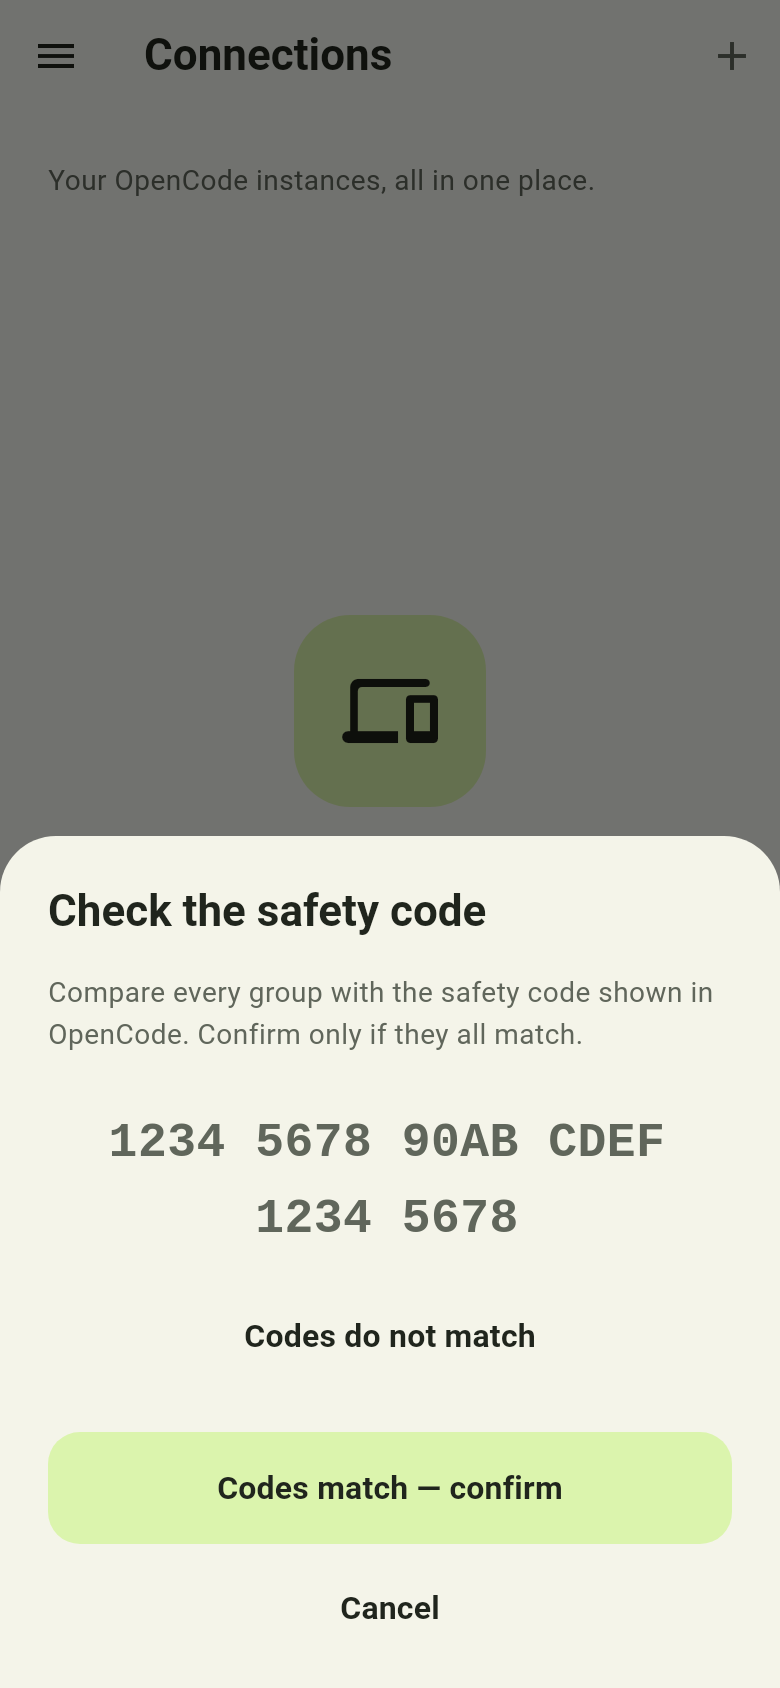
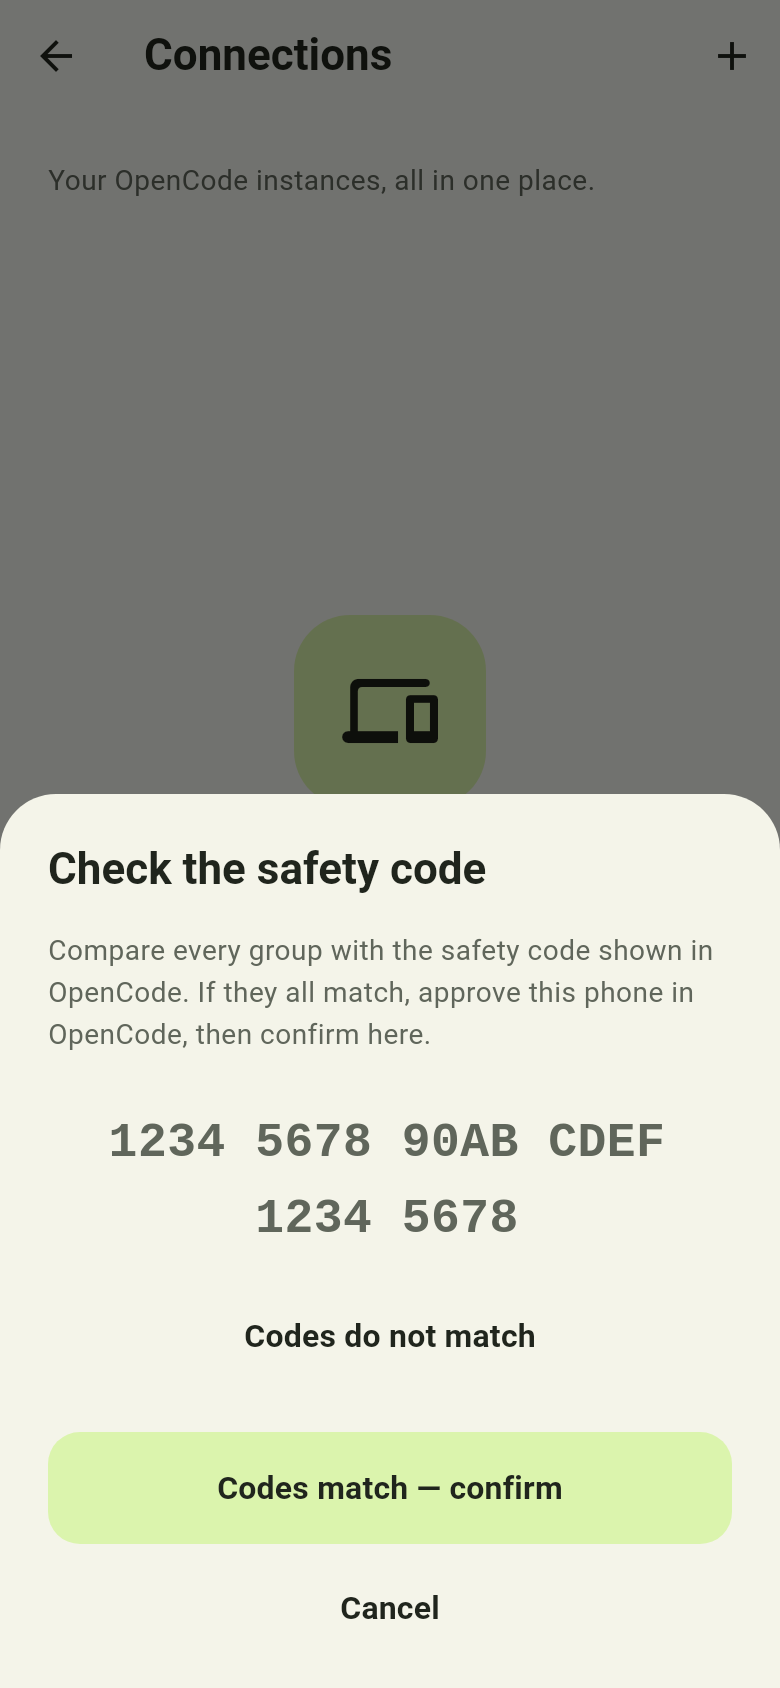
docs(mobile): refresh previews and verify voice availability states

Changed region(s): [[0.0, 0.4621, 1.0, 0.6161], [0.9231, 0.0308, 0.9538, 0.0616]]

diff --git a/tool/render_previews_test.dart b/tool/render_previews_test.dart
@@ -17,6 +17,7 @@ import 'package:flutter_test/flutter_test.dart';
 import 'package:openremotecode/app.dart';
 import 'package:openremotecode/features/chat/data/chat_repository.dart';
 import 'package:openremotecode/features/chat/ui/chat_flow_screen.dart';
+import 'package:openremotecode/features/chat/domain/voice_recorder.dart';
 import 'package:openremotecode/features/server_settings/domain/server_endpoint.dart';
 import 'package:openremotecode/ui/core/app_theme.dart';
 
@@ -25,6 +26,18 @@ import '../test/support/connections_fakes.dart';
 import '../test/support/memory_server_settings_repository.dart';
 
 final _shot = GlobalKey();
+
+class _PreviewVoiceRecorder implements VoiceRecorder {
+  @override
+  Future<bool> requestPermission() async => false;
+  @override
+  Future<Stream<Uint8List>> start() async => const Stream.empty();
+  @override
+  Future<void> stop() async {}
+  @override
+  Future<void> dispose() async {}
+}
+
 final _out = Platform.environment['PREVIEW_DIR'] ?? 'docs/previews';
 const _server = 'http://127.0.0.1:8080';
 
@@ -214,8 +227,9 @@ List<Map<String, dynamic>> _parts(bool withTask) => [
 ];
 
 final class _SampleChats implements ChatRepository {
-  _SampleChats({this.withTask = false});
+  _SampleChats({this.withTask = false, this.voiceAvailable = false});
   final bool withTask;
+  bool voiceAvailable;
   final changes = StreamController<void>.broadcast();
 
   @override
@@ -257,6 +271,8 @@ final class _SampleChats implements ChatRepository {
     Map<String, dynamic> body,
   ) async {
     switch (operation) {
+      case 'voice.status':
+        return {'version': 1, 'available': voiceAvailable};
       case 'project.list':
         return {
           'version': 1,
@@ -356,6 +372,7 @@ Future<void> _pumpChat(WidgetTester tester, _SampleChats repo) async {
           repository: repo,
           connectorId: 'sample',
           connectionName: 'Workstation',
+          voiceRecorderFactory: _PreviewVoiceRecorder.new,
         ),
       ),
     ),
@@ -403,13 +420,13 @@ void main() {
     await _pumpApp(tester, connections: repo, signedIn: true);
     await _capture(tester, 'workspace');
 
-    await tester.tap(find.byTooltip('Open navigation menu'));
+    await tester.tap(find.byTooltip('App options'));
     await tester.pumpAndSettle();
     await _capture(tester, 'workspace-sidebar');
-    await tester.tapAt(const Offset(370, 400));
+    await tester.tap(find.text('Connect'));
     await tester.pumpAndSettle();
 
-    await tester.tap(find.text('Enter pairing code'));
+    await tester.tap(find.byTooltip('Add connection'));
     await tester.pumpAndSettle();
     await _capture(tester, 'pairing-code');
     await tester.enterText(find.byType(TextFormField), 'abcd-efgh');
@@ -420,7 +437,9 @@ void main() {
     await tester.pumpAndSettle();
     await _capture(tester, 'connections');
 
-    await tester.tap(find.byTooltip('Open navigation menu'));
+    await tester.tap(find.byType(BackButton));
+    await tester.pumpAndSettle();
+    await tester.tap(find.byTooltip('App options'));
     await tester.pumpAndSettle();
     await tester.tap(find.text('Settings'));
     await tester.pumpAndSettle();
@@ -441,6 +460,22 @@ void main() {
     await _pumpChat(tester, _SampleChats());
     await _openConversation(tester);
     await _capture(tester, 'chat-thoughts');
+  });
+
+  testWidgets('conversation voice availability', (tester) async {
+    await _size(tester, const Size(420, 860), 1);
+    final repo = _SampleChats(voiceAvailable: true);
+    await _pumpChat(tester, repo);
+    await _openConversation(tester);
+    expect(find.byKey(const ValueKey('voice-note')), findsOneWidget);
+    expect(find.byKey(const ValueKey('voice-call')), findsOneWidget);
+    await _capture(tester, 'chat-voice-available');
+    repo.voiceAvailable = false;
+    await tester.pump(const Duration(seconds: 10));
+    await tester.pumpAndSettle();
+    expect(find.byKey(const ValueKey('voice-note')), findsNothing);
+    expect(find.byKey(const ValueKey('voice-call')), findsNothing);
+    await _capture(tester, 'chat-voice-unavailable');
   });
 
   testWidgets('conversation with a sub-agent task', (tester) async {

diff --git a/README.md b/README.md
@@ -195,7 +195,9 @@ Rendered Flutter design previews (synthetic sample data):
 [connections](docs/previews/connections.png), [settings](docs/previews/settings.png),
 [projects](docs/previews/projects.png), [chats](docs/previews/chats.png),
 [conversation](docs/previews/chat-thoughts.png), [sub-agent task](docs/previews/chat-subtasks.png),
-and [child conversation](docs/previews/subtask-chat.png).
+[child conversation](docs/previews/subtask-chat.png), and conversations with
+[voice available](docs/previews/chat-voice-available.png) or
+[voice unavailable](docs/previews/chat-voice-unavailable.png).
 Regenerate them all with `flutter test tool/render_previews_test.dart`
 (`PREVIEW_DIR` overrides the output directory); re-run it after any UI change.
 The root pnpm scripts do not run Flutter checks.
